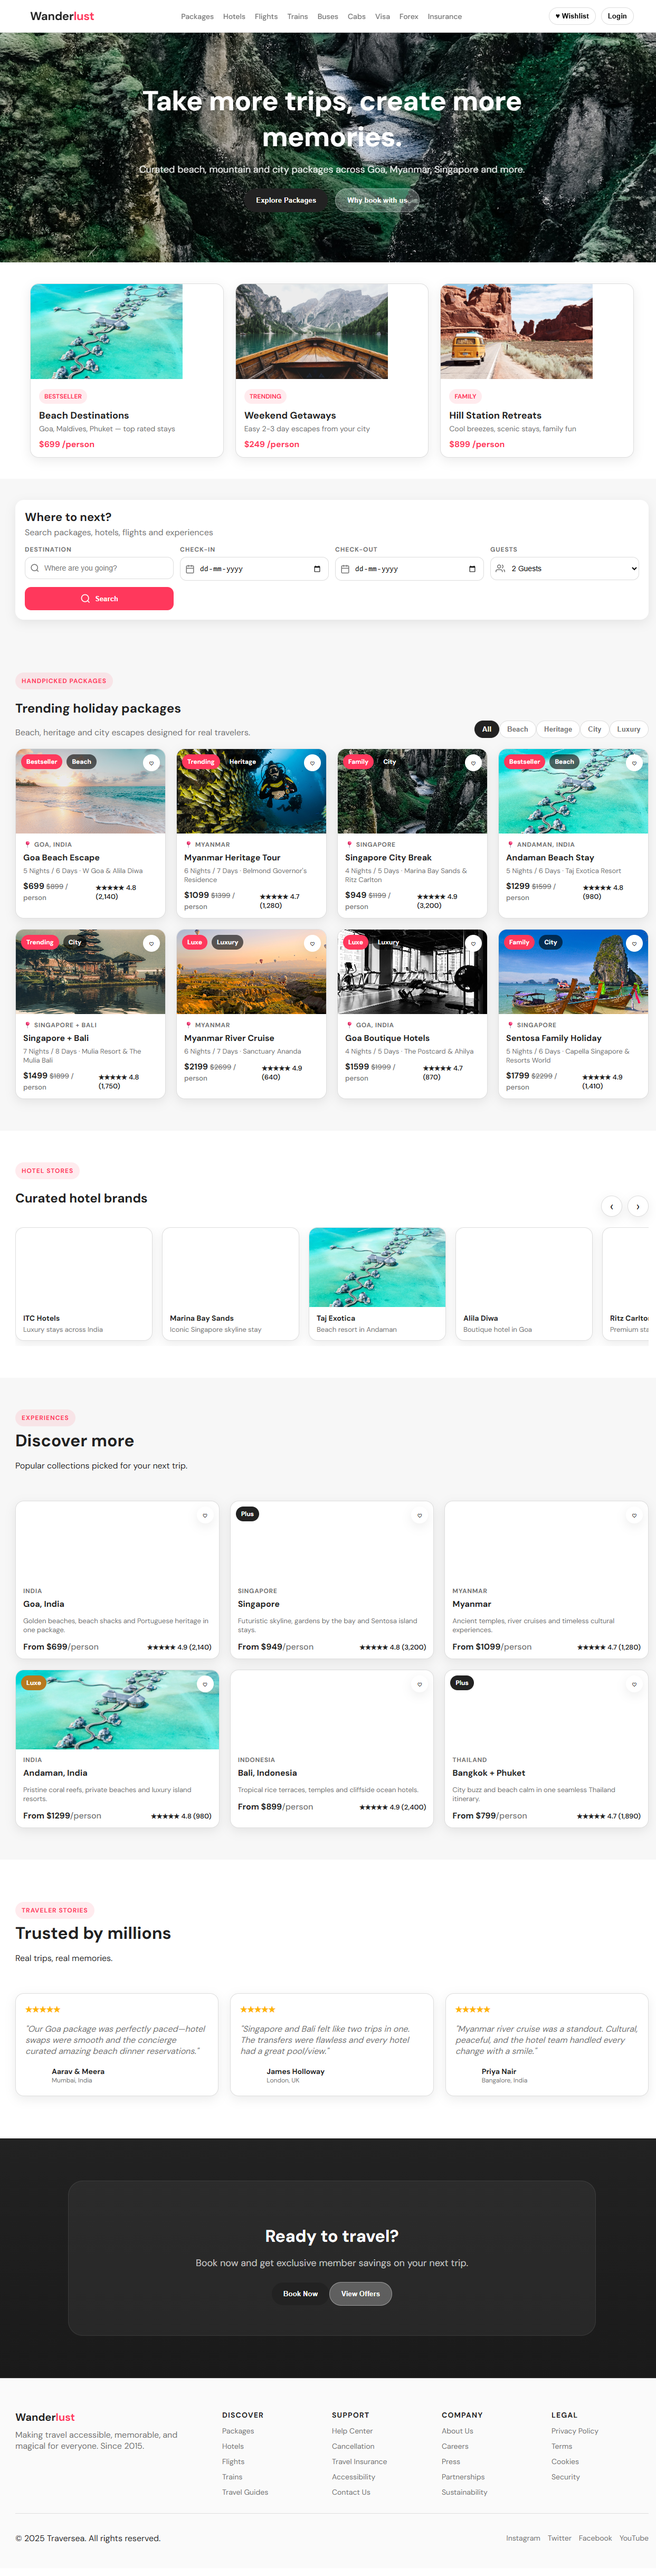
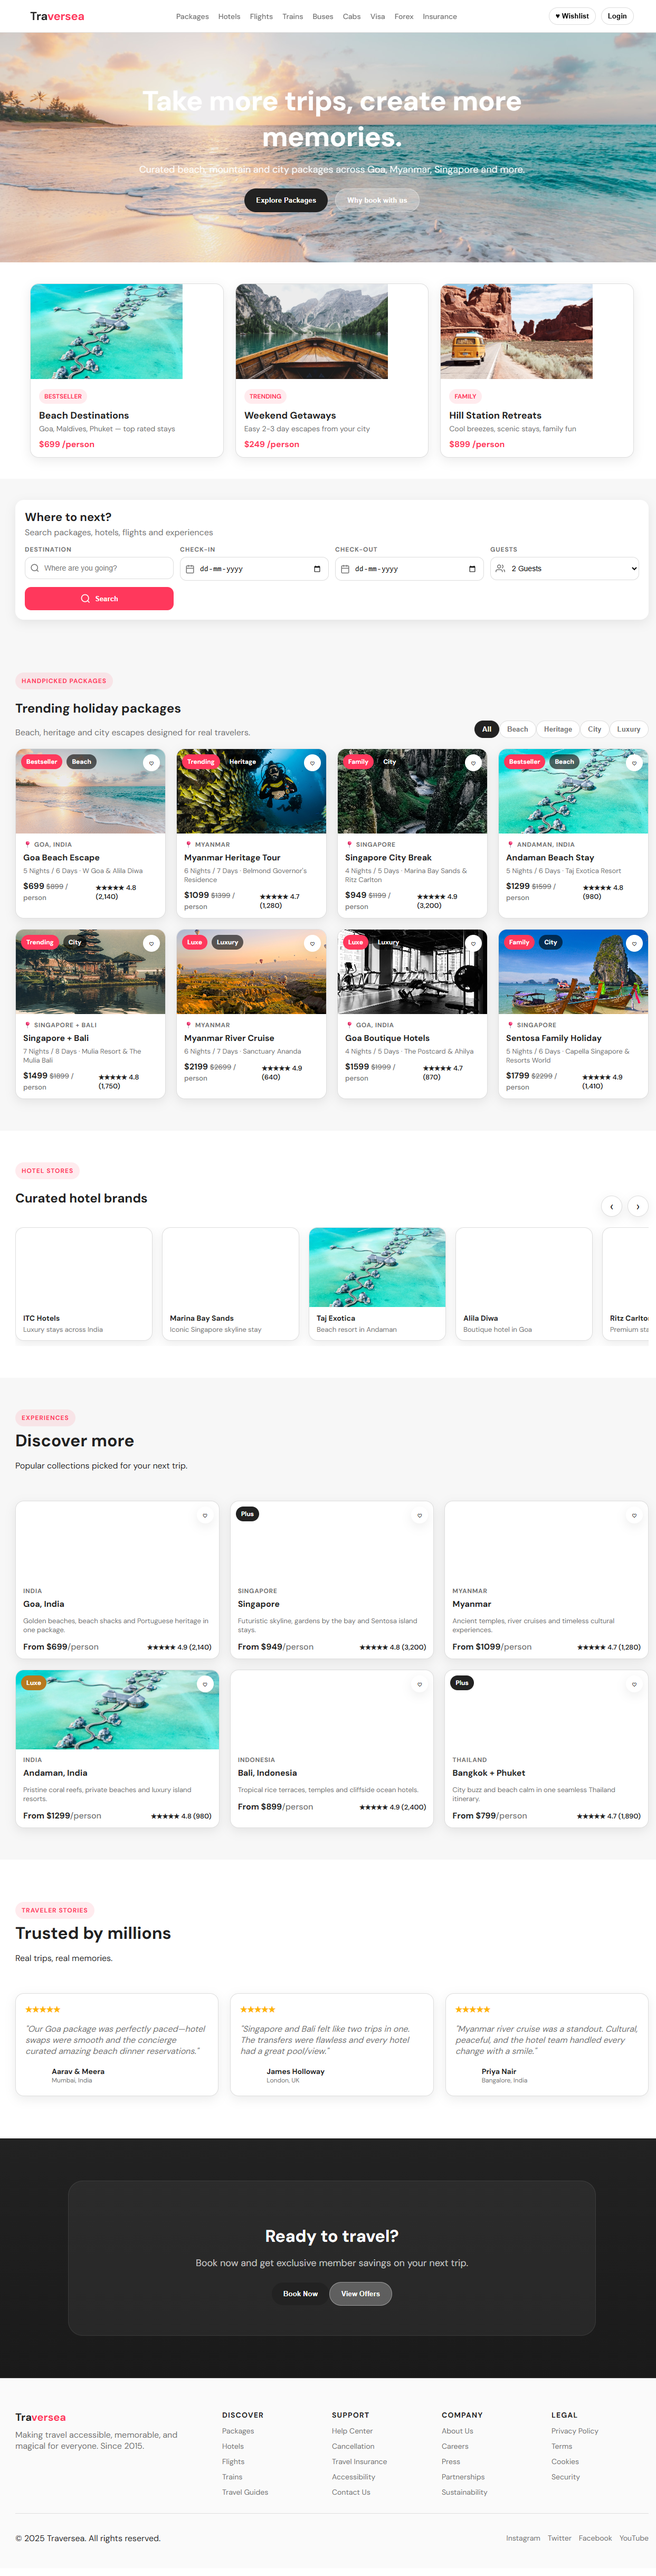
docs: update README title to Traversea and refresh homepage screenshot

Changed region(s): [[0.0, 0.0, 1.0, 0.1246]]

diff --git a/README.md b/README.md
@@ -1,4 +1,4 @@
-# Trip_plan_Website
+# Traversea — Travel Booking Platform
 
 Traversea is a MakeMyTrip-inspired travel booking platform built with **React + Vite** and an **Express** backend. The frontend focuses on curated travel packages, hotel brands, destination collections, and a search-led booking flow across **Goa, Myanmar, Singapore**, and more.
 
